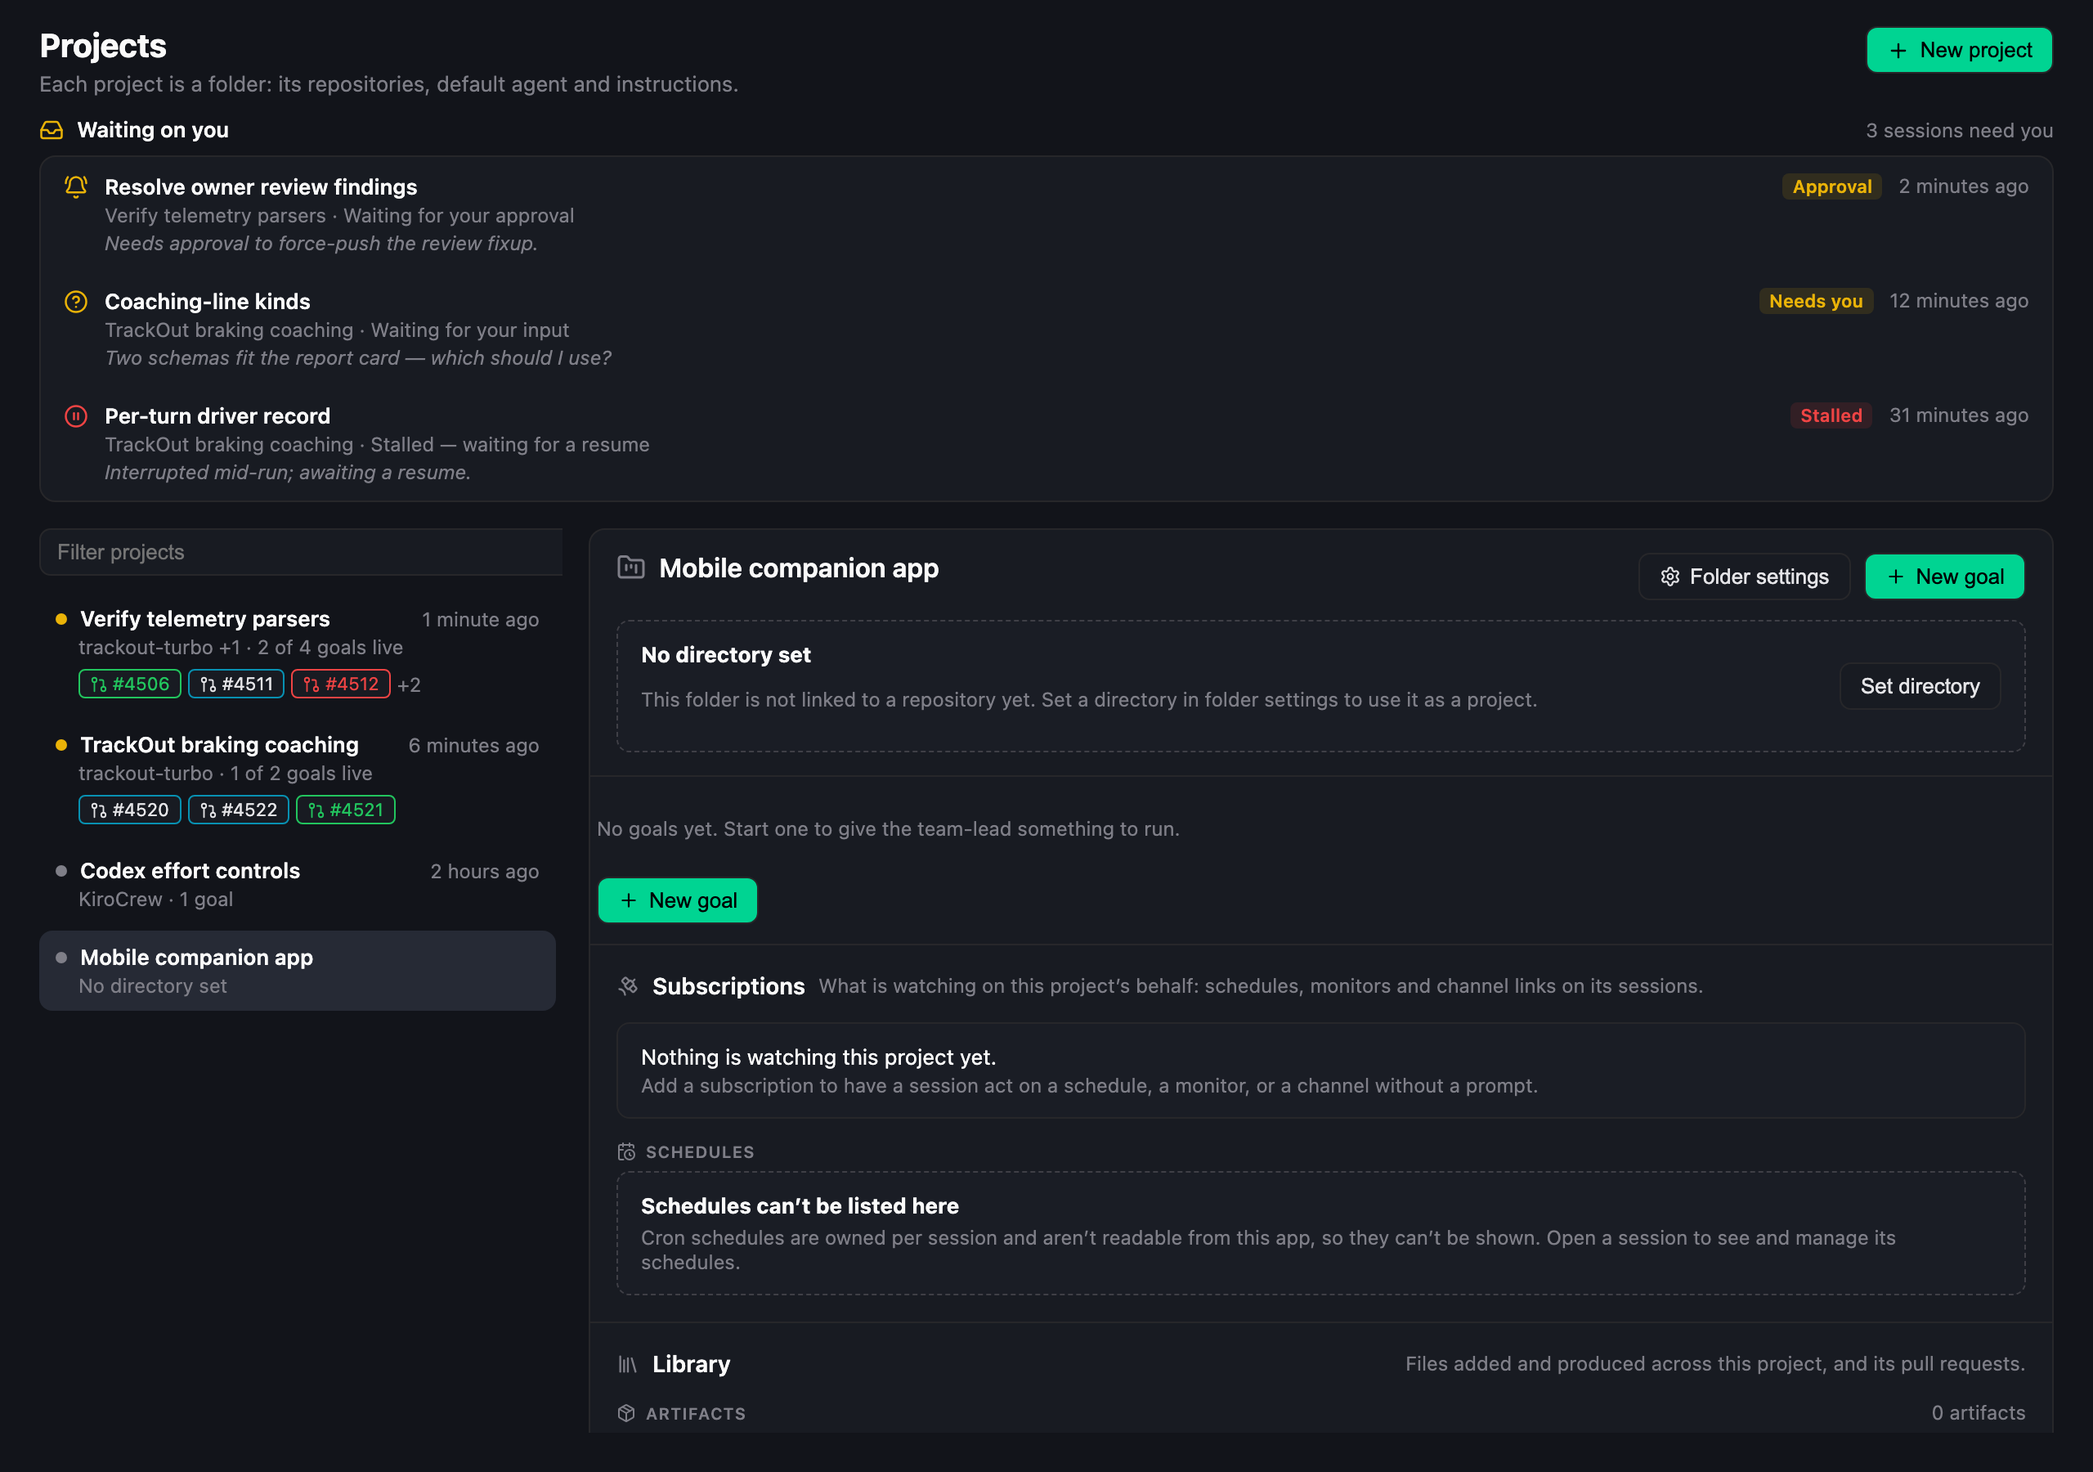
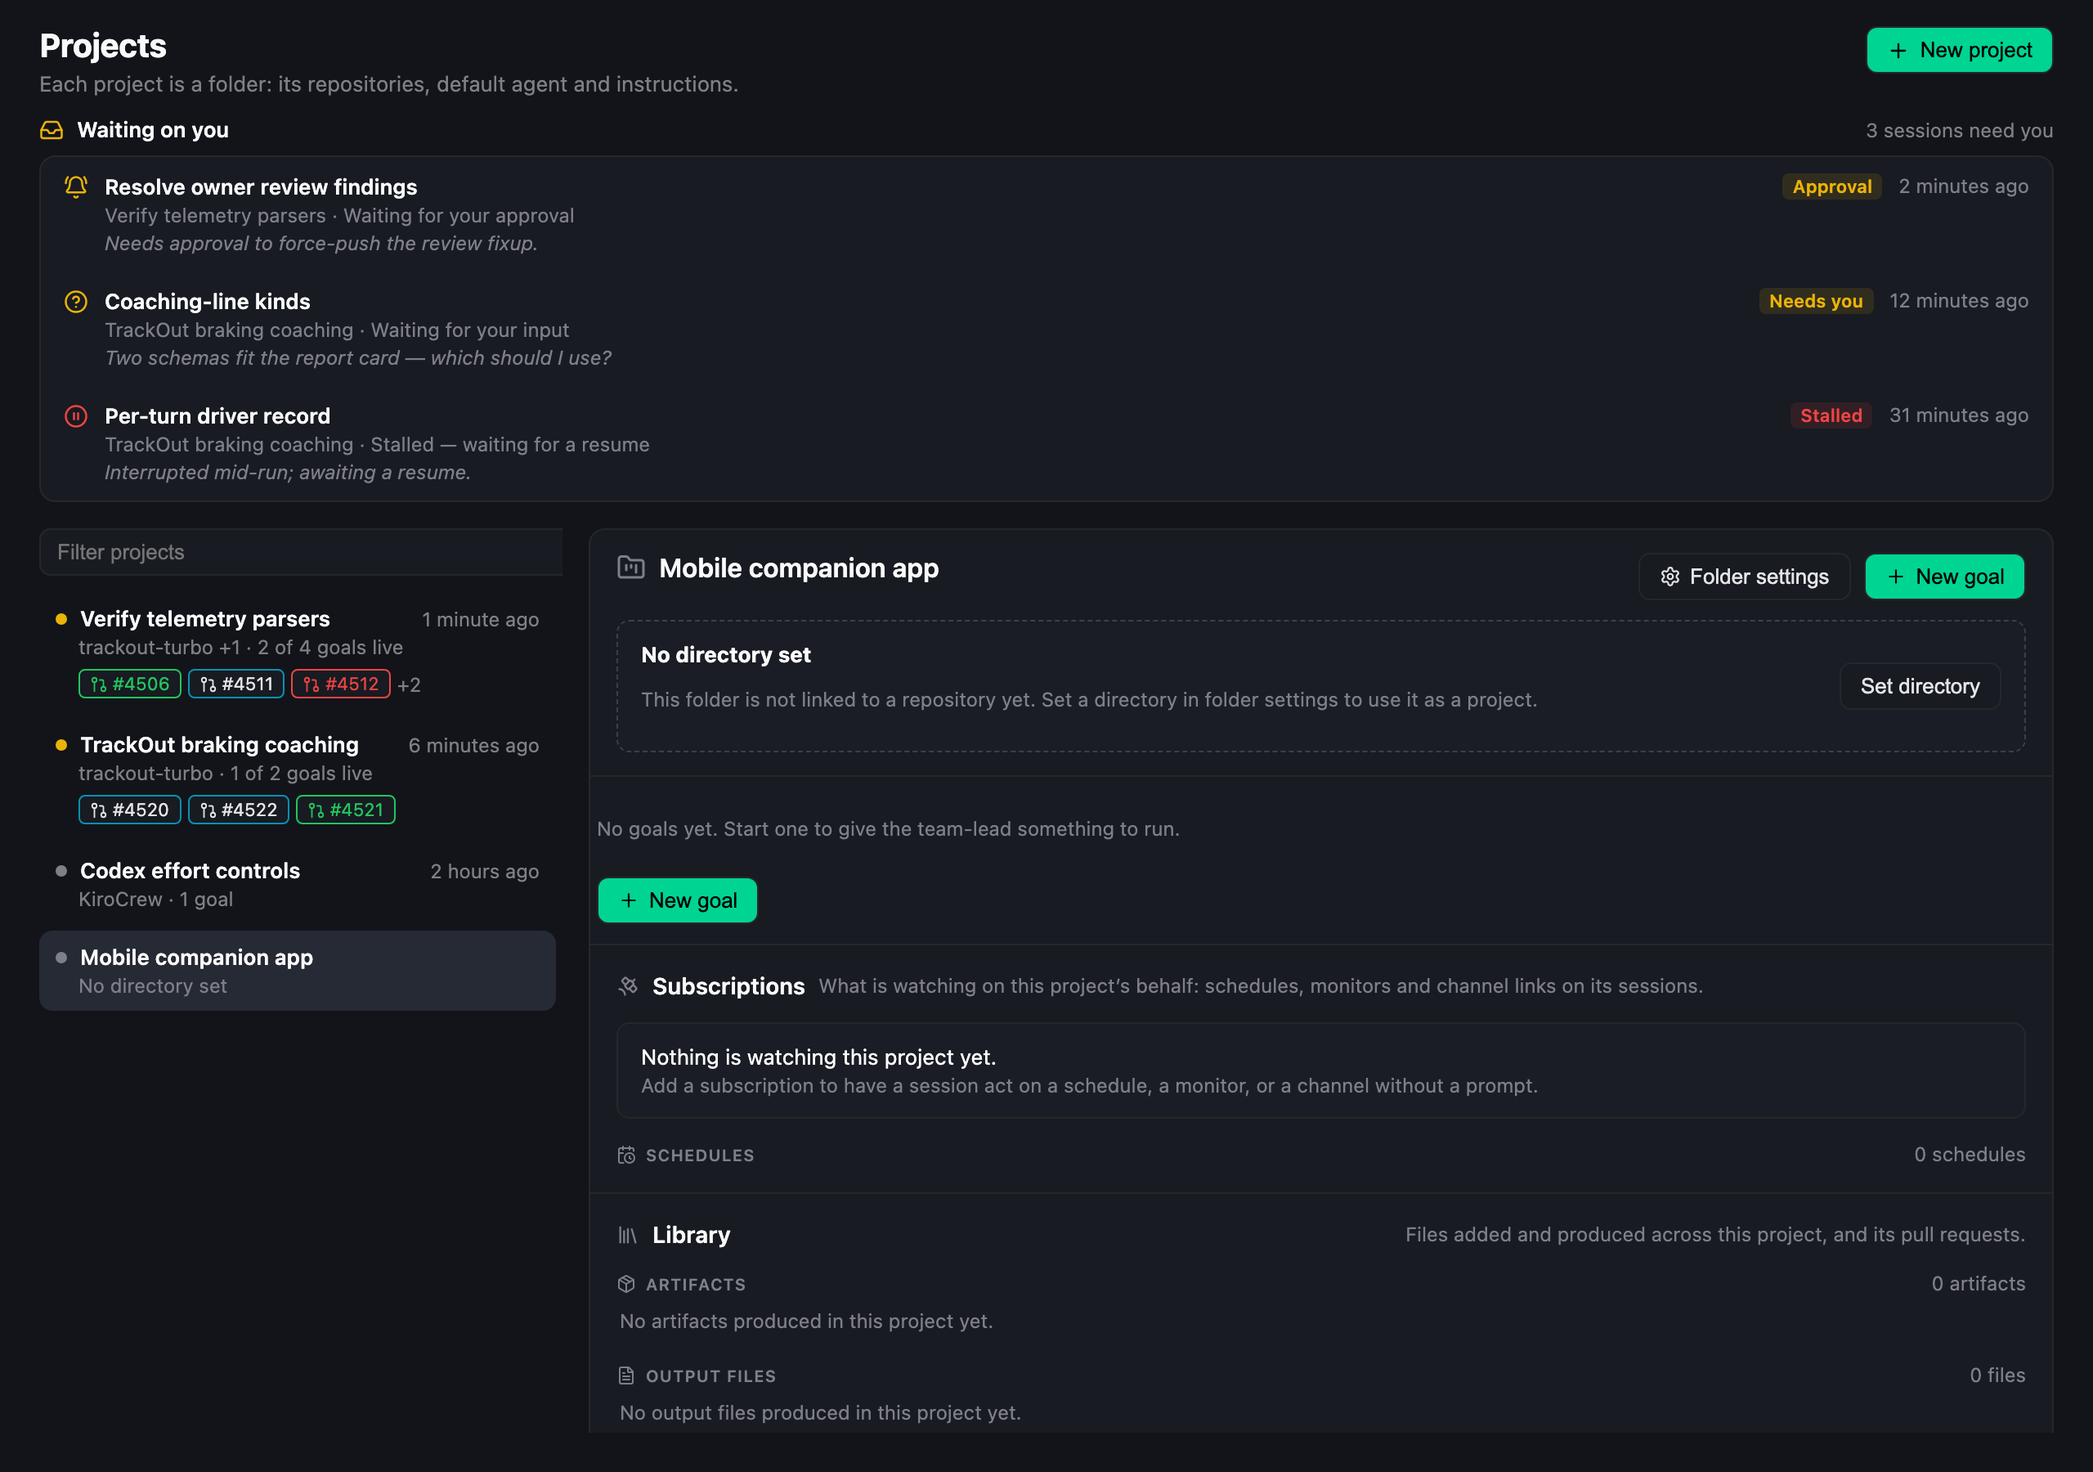
feat: show project schedules from the read-only core route

diff --git a/ui/src/App.tsx b/ui/src/App.tsx
@@ -31,7 +31,10 @@ import {
   buildFolderProjects,
   buildInbox,
   buildSubscriptions,
-  cronsAvailable,
+  schedulesState,
+  type ProjectSchedule,
+  type ProjectSchedulesPage,
+  type SchedulesState,
   dedupeProjectPrs,
   loopText,
   projectArtifacts,
@@ -423,21 +426,53 @@ function SubscriptionRow({ sub, onOpen }: { sub: Subscription; onOpen: (key: str
  *  lead session — the agent sets the watch up with its own tools; the app
  *  creates no cron, loop or link itself. When nothing is watching and no lead
  *  exists to draft into, the panel shows a calm empty state. */
+/** One cron schedule on a project session. Opens the owning session, where
+ *  the person (or its agent) manages the job; the app never edits crons. */
+function ScheduleRow({ job, onOpen }: { job: ProjectSchedule; onOpen: (key: string) => void }) {
+  const paused = !job.enabled
+  const owner = job.session_key ?? ''
+  const meta = [
+    job.schedule,
+    job.next_run && !paused ? t.subScheduleNext(fmtRelative(job.next_run * 1000)) : '',
+    job.last_status ? t.subScheduleLast(job.last_status) : '',
+  ].filter(Boolean).join(' · ')
+  const body = (
+    <>
+      <CalendarClock size={14} className="tp-sub-ico" aria-hidden="true" />
+      <div className="tp-sub-main">
+        <span className="tp-sub-name">{job.name}</span>
+        <span className="tp-muted tp-ellipsis">{meta}</span>
+      </div>
+      {paused && <Badge variant="muted">{t.subSchedulePaused}</Badge>}
+    </>
+  )
+  // A job whose owning session is gone still lists, but has nothing to open.
+  return owner ? (
+    <Clickable className="tp-subs-row" onClick={() => onOpen(owner)} aria-label={`${t.open}: ${job.name}`}>
+      {body}
+    </Clickable>
+  ) : (
+    <div className="tp-subs-row tp-subs-row-static" role="listitem">{body}</div>
+  )
+}
+
 function SubscriptionsSection({
   subs,
+  schedules,
   canAdd,
   onOpen,
   onAdd,
 }: {
   subs: Subscription[]
+  schedules: SchedulesState
   canAdd: boolean
   onOpen: (key: string) => void
   onAdd: () => void
 }) {
   const monitors = subs.filter(s => s.kind === 'monitor')
   const slack = subs.filter(s => s.kind === 'slack')
-  const schedulesAvailable = cronsAvailable()
-  const nothing = subs.length === 0
+  const scheduleRows = schedules.kind === 'ready' ? schedules.schedules : []
+  const nothing = subs.length === 0 && scheduleRows.length === 0
 
   return (
     <section className="tp-subs" aria-label={t.subscriptions}>
@@ -488,16 +523,28 @@ function SubscriptionsSection({
         </>
       )}
 
-      {/* Schedules: the app cannot read the person's crons, so this is always an
-          honest unavailable note rather than a faked or empty "no schedules". */}
+      {/* Schedules come from core's reduced, read-only /api/project-schedules
+          route. On a gateway without it (or without the grant) the group keeps
+          an honest unavailable note rather than an empty "no schedules". */}
       <div className="tp-subs-group">
         <div className="tp-subs-grouphead">
           <CalendarClock size={12} aria-hidden="true" /> {t.subSchedules}
+          {schedules.kind === 'ready' && (
+            <span className="tp-muted">{t.subSchedulesCount(scheduleRows.length)}</span>
+          )}
         </div>
-        {schedulesAvailable ? null : (
+        {schedules.kind === 'unavailable' && (
           <div className="tp-subs-unavail" role="note">
             <strong className="tp-subs-unavail-title">{t.subSchedulesUnavailable}</strong>
             <p className="tp-muted">{t.subSchedulesUnavailableBody}</p>
+          </div>
+        )}
+        {schedules.kind === 'ready' && scheduleRows.length === 0 && !nothing && (
+          <p className="tp-muted tp-subs-none">{t.subSchedulesNone}</p>
+        )}
+        {scheduleRows.length > 0 && (
+          <div className="tp-subs-list" role="list">
+            {scheduleRows.map(j => <ScheduleRow key={j.id} job={j} onOpen={onOpen} />)}
           </div>
         )}
       </div>
@@ -513,6 +560,7 @@ function ProjectPage({
   loops,
   library,
   subscriptions,
+  schedules,
   onOpen,
   onOpenArtifact,
   onNewGoal,
@@ -523,6 +571,7 @@ function ProjectPage({
   loops: Loop[]
   library: LibraryData
   subscriptions: Subscription[]
+  schedules: SchedulesState
   onOpen: (key: string) => void
   onOpenArtifact: (slug: string) => void
   onNewGoal: (p: FolderProject) => void
@@ -622,6 +671,7 @@ function ProjectPage({
 
       <SubscriptionsSection
         subs={subscriptions}
+        schedules={schedules}
         // Add-subscription drafts into the project's lead session, so it needs a
         // live lead to open. A project with only archived goals (no live lead)
         // has no session to seed the draft into, so the button is hidden there.
@@ -985,6 +1035,23 @@ export default function TeamProjects() {
     [current, slotsByKey, loops],
   )
 
+  // Cron schedules for the CURRENT project from core's reduced, read-only
+  // /api/project-schedules/{folder_id}. A gateway without the route (404) or an
+  // install without the grant (403) errors, which schedulesState maps to the
+  // honest unavailable note. No retry: an absent route will not appear.
+  const schedulesQ = useQuery({
+    queryKey: ['team-projects', 'schedules', currentFolderId],
+    queryFn: () =>
+      api.get<ProjectSchedulesPage>(`/api/project-schedules/${encodeURIComponent(currentFolderId)}`),
+    enabled: visible && currentFolderId !== '',
+    refetchInterval: visible ? POLL_MS * 6 : false,
+    retry: false,
+  })
+  const schedules = useMemo(
+    () => schedulesState(schedulesQ.data, schedulesQ.error, schedulesQ.isLoading),
+    [schedulesQ.data, schedulesQ.error, schedulesQ.isLoading],
+  )
+
   const openSession = (slotKey: string) => openChat({ slotKey })
   // Open an artifact at the host's read-only detail page (/artifacts/<slug>).
   // The app only LINKS to it — it never materializes, mutates or re-files it,
@@ -1090,6 +1157,7 @@ export default function TeamProjects() {
                   loops={loops}
                   library={library}
                   subscriptions={subscriptions}
+                  schedules={schedules}
                   onOpen={openSession}
                   onOpenArtifact={openArtifact}
                   onNewGoal={openNewGoal}

diff --git a/ui/src/model.ts b/ui/src/model.ts
@@ -864,11 +864,55 @@ export function buildSubscriptions(
   return [...monitors, ...slack]
 }
 
-/** Whether the app can list the project's cron schedules. Always false for an
- *  installed app: `/api/crons` scopes its GET to the calling app's OWN jobs, so
- *  a team-projects token never sees a person-owned cron. Kept a function (not a
- *  bare constant) so the reason has one named, tested home and the UI reads an
- *  intent, not a magic `false`. */
-export function cronsAvailable(): boolean {
-  return false
+/** One row of `GET /api/project-schedules/{folder_id}` (Kiro Crew core). A
+ *  REDUCED cron record: the route never returns a job's message, script,
+ *  command, env or result text, so nothing here can carry a prompt or secret. */
+export interface ProjectSchedule {
+  id: string
+  name: string
+  schedule: string
+  cron_expr: string | null
+  every_secs: number | null
+  timezone: string | null
+  enabled: boolean
+  user_paused: boolean
+  /** Epoch seconds of the next fire, or null when none is due. */
+  next_run: number | null
+  last_status: string | null
+  session_key: string | null
+}
+
+export interface ProjectSchedulesPage {
+  schedules: ProjectSchedule[]
+  folder_id: string
+  server_tz: string | null
+}
+
+/** What the Schedules group can say. `unavailable` covers a gateway that
+ *  predates the route (404) or an install that did not grant it (403): the
+ *  panel then keeps its honest "can't be listed here" note, never an empty list
+ *  that would read as "no schedules". */
+export type SchedulesState =
+  | { kind: 'loading' }
+  | { kind: 'unavailable' }
+  | { kind: 'ready'; schedules: ProjectSchedule[] }
+
+export function schedulesState(
+  data: unknown,
+  error: unknown,
+  loading: boolean,
+): SchedulesState {
+  if (error) return { kind: 'unavailable' }
+  if (loading) return { kind: 'loading' }
+  const rows = (data as ProjectSchedulesPage | undefined)?.schedules
+  if (!Array.isArray(rows)) return { kind: 'unavailable' }
+  // Paused (by the person or by repeated failures) sinks below running ones;
+  // then soonest first.
+  const sorted = [...rows].sort((a, b) => {
+    const pa = a.enabled ? 0 : 1
+    const pb = b.enabled ? 0 : 1
+    if (pa !== pb) return pa - pb
+    return (a.next_run ?? Infinity) - (b.next_run ?? Infinity)
+  })
+  return { kind: 'ready', schedules: sorted }
 }

diff --git a/ui/src/dev/fixtures.ts b/ui/src/dev/fixtures.ts
@@ -516,3 +516,23 @@ export const foldersFixture: Folder[] = [
     history_count: 0,
   },
 ]
+
+// ── Project schedules (GET /api/project-schedules/{folder_id}) ──────────────
+// The REDUCED shape core returns: no message, script, env or result text.
+const inSecs = (s: number) => Math.floor(Date.now() / 1000) + s
+const schedulesByFolder: Record<string, unknown[]> = {
+  'f-parsers': [
+    { id: 'cr-nightly', name: 'Nightly parser regression run', schedule: 'every day at 02:00', cron_expr: '0 2 * * *', every_secs: null, timezone: 'America/New_York', enabled: true, user_paused: false, next_run: inSecs(6 * 3600), last_status: 'ok', session_key: 'L-parsers' },
+    { id: 'cr-pr-follow', name: 'Follow open parser PRs', schedule: 'every 30 minutes', cron_expr: null, every_secs: 1800, timezone: null, enabled: true, user_paused: false, next_run: inSecs(12 * 60), last_status: 'ok', session_key: 'C-ref' },
+    { id: 'cr-weekly', name: 'Weekly fixture refresh', schedule: 'Mondays at 09:00', cron_expr: '0 9 * * 1', every_secs: null, timezone: 'America/New_York', enabled: false, user_paused: true, next_run: null, last_status: 'error', session_key: 'L-parsers' },
+  ],
+  'f-braking': [
+    { id: 'cr-bugs', name: 'Triage #trackout-bugs each weekday', schedule: 'weekdays at 09:00', cron_expr: '0 9 * * 1-5', every_secs: null, timezone: 'America/New_York', enabled: true, user_paused: false, next_run: inSecs(15 * 3600), last_status: null, session_key: 'L-braking' },
+  ],
+}
+
+/** Rows for one folder, including its nested children like the real route. */
+export function schedulesForFolder(folderId: string): unknown[] {
+  const kids = folderId === 'f-parsers' ? ['f-parsers-ref'] : []
+  return [folderId, ...kids].flatMap(id => schedulesByFolder[id] ?? [])
+}

diff --git a/ui/src/model.test.ts b/ui/src/model.test.ts
@@ -6,7 +6,7 @@ import {
   buildProjects,
   buildSubscriptions,
   cadenceText,
-  cronsAvailable,
+  schedulesState,
   dedupeProjectPrs,
   folderRepos,
   loopText,
@@ -437,9 +437,27 @@ describe('cadenceText', () => {
   })
 })
 
-describe('cronsAvailable', () => {
-  it('is false: the app cannot list the person\'s crons (api/crons is app-scoped)', () => {
-    expect(cronsAvailable()).toBe(false)
+describe('schedulesState', () => {
+  const row = (id: string, enabled: boolean, next_run: number | null) => ({
+    id, name: id, schedule: 'every hour', cron_expr: null, every_secs: 3600, timezone: null,
+    enabled, user_paused: !enabled, next_run, last_status: null, session_key: 'chat-1',
+  })
+  it('is unavailable when the route errors (old gateway 404, ungranted 403)', () => {
+    expect(schedulesState(undefined, new Error('404'), false)).toEqual({ kind: 'unavailable' })
+  })
+  it('is unavailable on a malformed body rather than claiming no schedules', () => {
+    expect(schedulesState({ nope: 1 }, null, false)).toEqual({ kind: 'unavailable' })
+  })
+  it('is loading before the first answer', () => {
+    expect(schedulesState(undefined, null, true)).toEqual({ kind: 'loading' })
+  })
+  it('sorts running jobs soonest first and paused ones last', () => {
+    const st = schedulesState(
+      { schedules: [row('p', false, 10), row('late', true, 300), row('soon', true, 100), row('none', true, null)] },
+      null,
+      false,
+    )
+    expect(st.kind === 'ready' && st.schedules.map(s => s.id)).toEqual(['soon', 'late', 'none', 'p'])
   })
 })
 

diff --git a/ui/src/dev/sdk-stub.tsx b/ui/src/dev/sdk-stub.tsx
@@ -18,6 +18,7 @@ import {
   sessionsPageFixture,
   sessionDocsPageFixture,
   artifactsForFolder,
+  schedulesForFolder,
   type Folder,
 } from './fixtures'
 import type { Slot } from '../model'
@@ -27,6 +28,13 @@ import type { Slot } from '../model'
 function inboxEmptyMode(): boolean {
   if (typeof window === 'undefined') return false
   return new URLSearchParams(window.location.search).get('empty') === '1'
+}
+
+/** Harness-only flag: `?noschedules=1` makes the schedules route fail like an
+ *  older gateway (404), to screenshot the unavailable note. */
+function noSchedulesMode(): boolean {
+  if (typeof window === 'undefined') return false
+  return new URLSearchParams(window.location.search).get('noschedules') === '1'
 }
 
 export interface AppApi {
@@ -59,7 +67,13 @@ function queryParam(path: string, key: string): string {
 }
 
 function resolve<T>(path: string): T {
-  switch (route(path)) {
+  const r = route(path)
+  if (r.startsWith('/api/project-schedules/')) {
+    if (noSchedulesMode()) throw Object.assign(new Error('HTTP 404'), { status: 404 })
+    const folderId = decodeURIComponent(r.slice('/api/project-schedules/'.length))
+    return { schedules: schedulesForFolder(folderId), folder_id: folderId, server_tz: 'America/New_York' } as unknown as T
+  }
+  switch (r) {
     case '/api/chat/slots':
       return (inboxEmptyMode() ? slotsNoWaitingFixture : slotsFixture) as unknown as T
     case '/api/autonudge':

diff --git a/ui/src/strings.ts b/ui/src/strings.ts
@@ -168,9 +168,14 @@ export const t = {
   subSlackMeta: (channel: string) => (channel ? `Linked to ${channel}` : 'Linked to a channel'),
   /** The honest UNAVAILABLE state for schedules: the app cannot read the
    *  person's crons, so it says so rather than render an empty "no schedules". */
+  subSchedulesCount: (n: number) => (n === 1 ? '1 schedule' : `${n} schedules`),
+  subSchedulesNone: 'No schedules on this project’s sessions.',
+  subSchedulePaused: 'Paused',
+  subScheduleNext: (when: string) => `next ${when}`,
+  subScheduleLast: (status: string) => `last run ${status}`,
   subSchedulesUnavailable: 'Schedules can’t be listed here',
   subSchedulesUnavailableBody:
-    'Cron schedules are owned per session and aren’t readable from this app, so they can’t be shown. Open a session to see and manage its schedules.',
+    'This Kiro Crew version doesn’t offer project schedules to apps. Open a session to see and manage its schedules.',
   /** The accessible label for a subscription row's open action. */
   subscriptionOpen: (session: string) => `Open ${session}`,
 }

diff --git a/ui/src/styles.ts b/ui/src/styles.ts
@@ -174,7 +174,10 @@ a.tp-chip:hover{border-color:var(--border-strong,var(--border));color:var(--text
 .tp-subs-list{display:flex;flex-direction:column;border:1px solid var(--border);border-radius:8px;overflow:hidden}
 .tp-subs-row{display:flex;align-items:center;gap:10px;padding:8px 12px;border-bottom:1px solid var(--border);min-width:0;cursor:pointer}
 .tp-subs-list > :last-child{border-bottom:none}
+.tp-subs-row-static{cursor:default}
+.tp-subs-none{margin:0;font-size:12px}
 .tp-subs-row:hover{background:var(--bg-hover)}
+.tp-subs-row-static:hover{background:none}
 .tp-subs-row:focus-visible{outline:2px solid var(--ring,var(--accent));outline-offset:-2px}
 .tp-sub-ico{flex:none;color:var(--muted)}
 .tp-sub-main{min-width:0;display:flex;flex-direction:column;gap:1px;flex:1}
